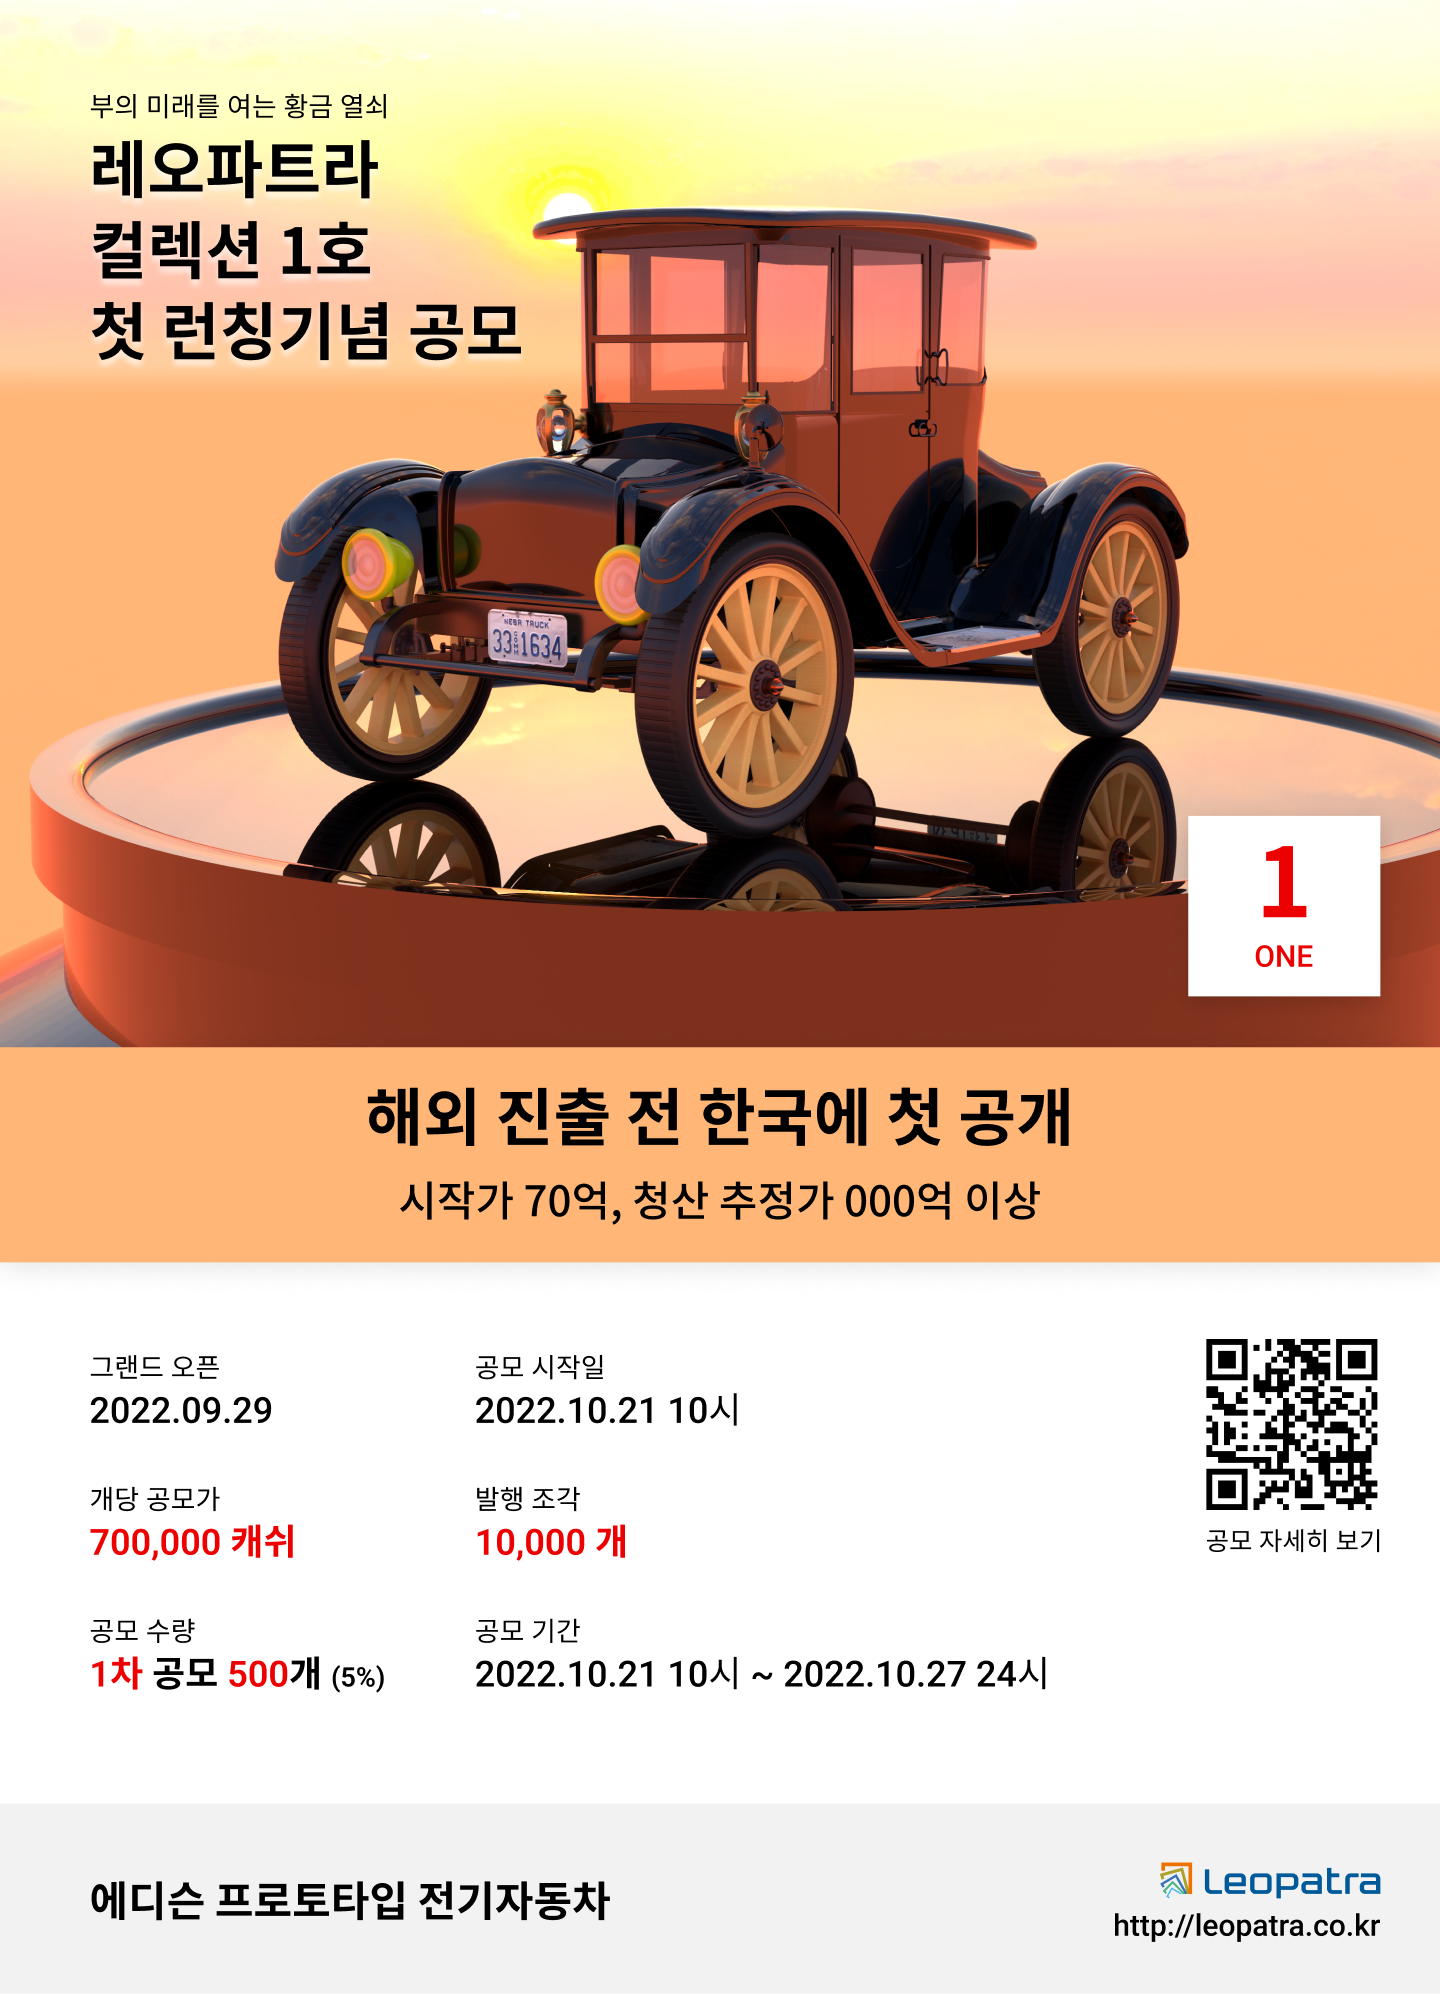
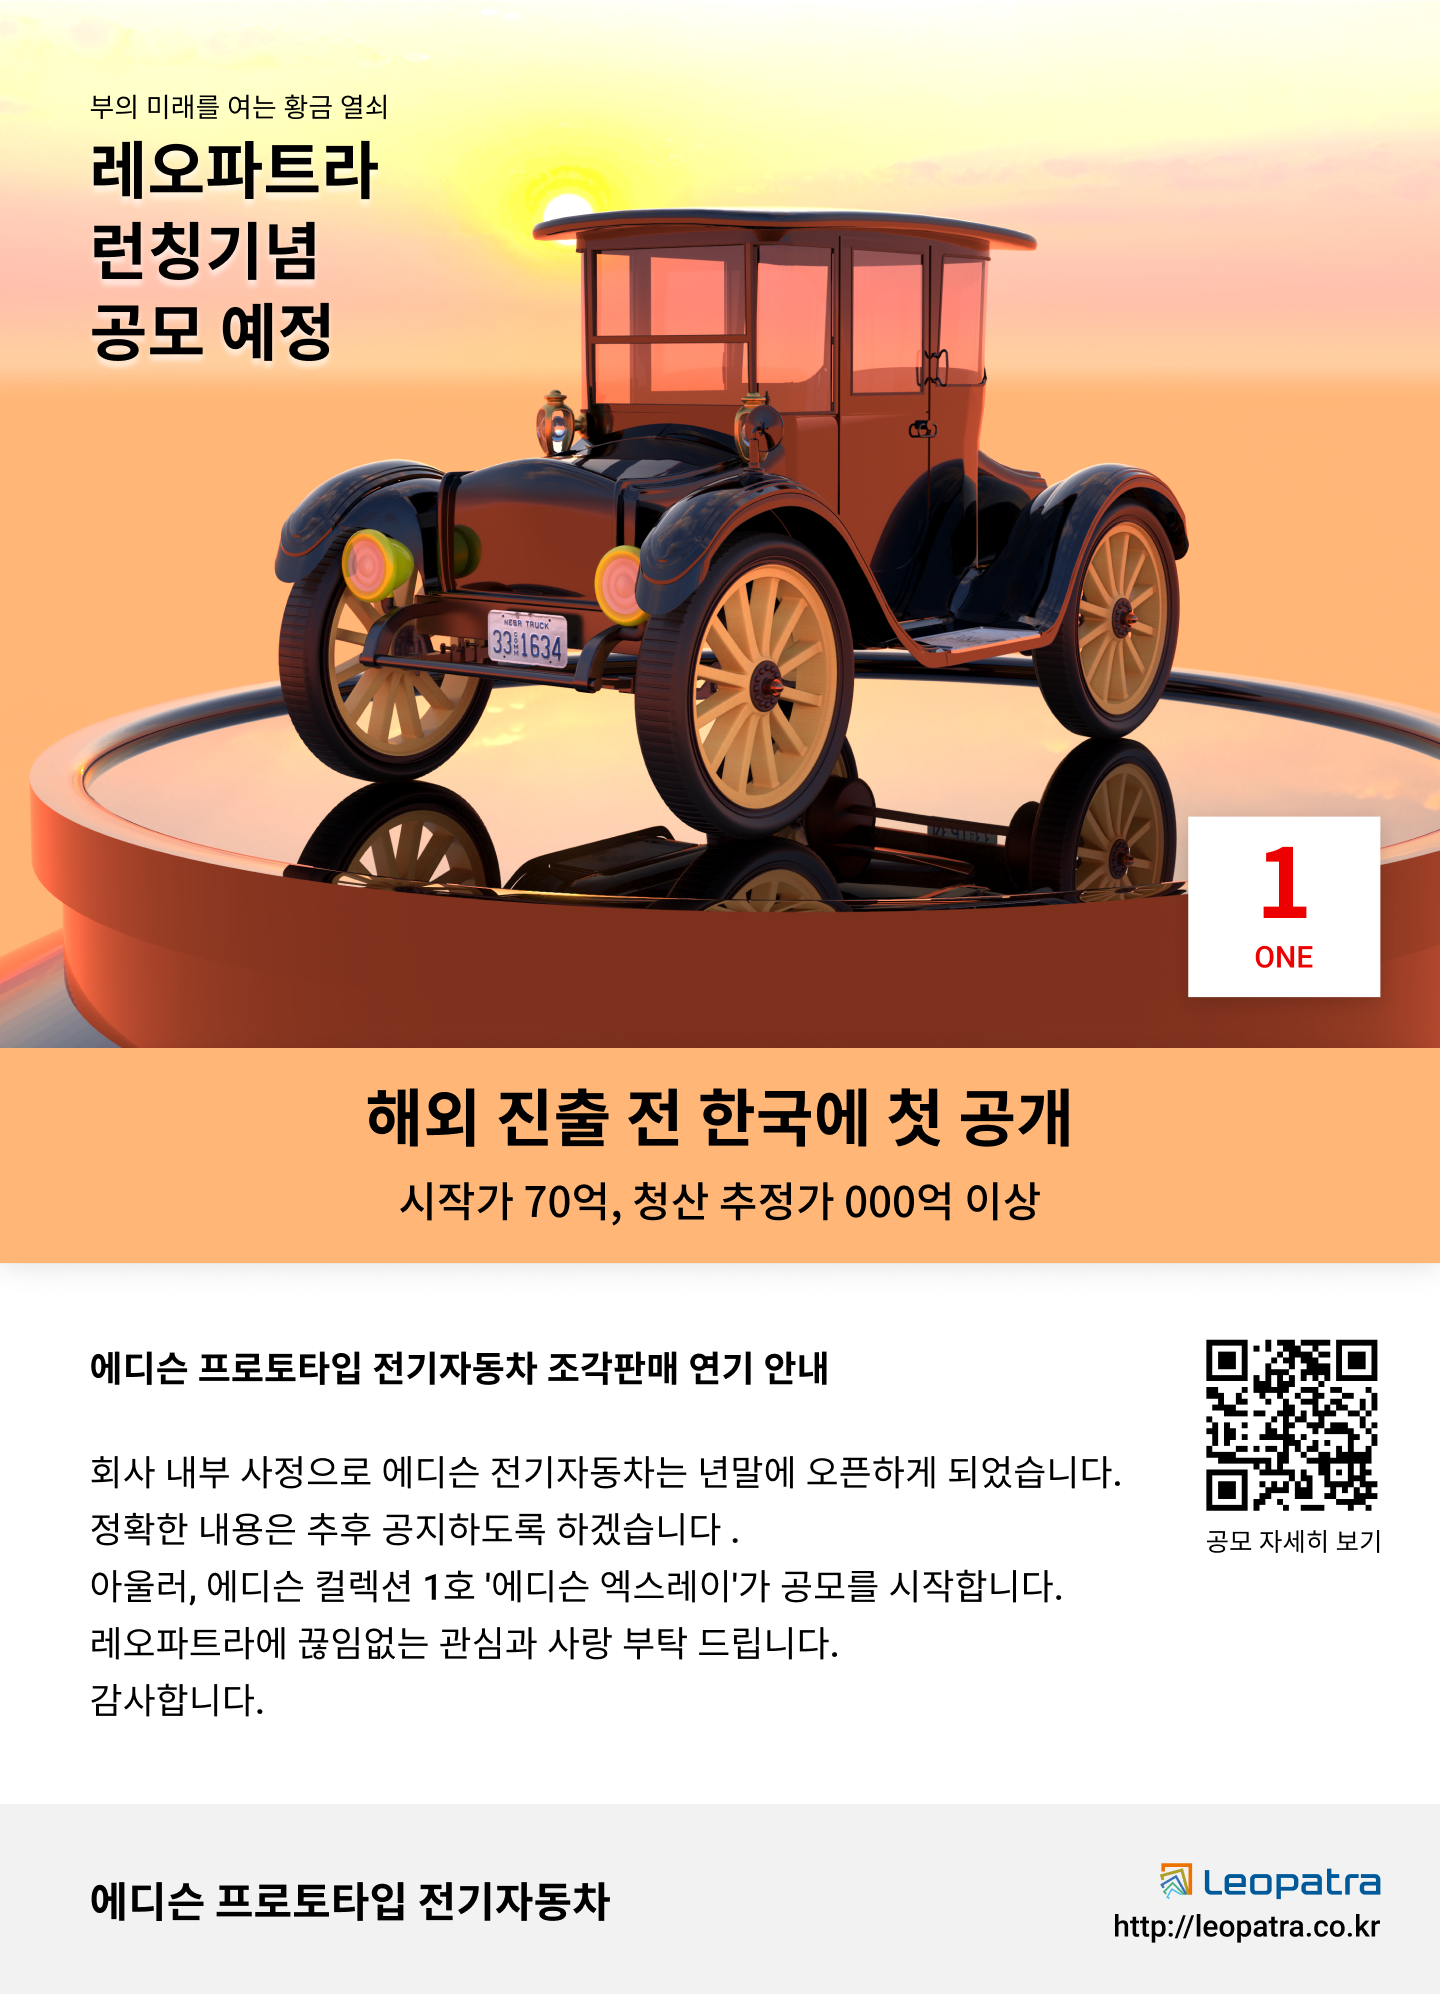
popup창 이미지 변경

diff --git a/html/MK-01-0001.html b/html/MK-01-0001.html
@@ -205,13 +205,13 @@
                           <a href="">
                             <div class="bestItem">
                               <div class="textBox">
-                                <p class="p0">BEST</p>
+                                <p class="p0">Coming Soon</p>
                                 <p class="p1">에디슨 전기차</p>
-                                <p class="p2">세상에서 가장 값진 '에디슨 컬렉션 1호'</p>
+                                <p class="p2">세상에서 가장 값진 '에디슨 컬렉션'</p>
                                 <p class="p3">전세계 3대뿐인 '에디슨 전기자동차 프로토타입' 조각상품
                                 </p>
                                 <p class="p4">블록체인 NFT신뢰 플랫폼 레오파트라, ‘에디슨 컬렉션 1호’ 9월말 출시 강릉 에디슨과학·참소리축음기·손성목영화 박물관 소장품 
-                                  독점 계약… 소유권 조각 판매 '에디슨이 타고 다니던 차'로 유명한 
+                                  독점 계약… 소유권 조각 판매<br/>'에디슨이 타고 다니던 차'로 유명한 
                                   희귀소장품, 경매가 100억원대 예상
                                 </p>
                                 <div class="storyBtn">
@@ -220,7 +220,8 @@
                                   </a>
                                 </div>
                                 <span class="horLine"></span>
-                                <p class="p5">120,000 원</p>
+                                <p class="p5">시작가 70억,<br/> 
+                                  청산 추정가 000억 이상</p>
                               </div>
                               <div class="imgBox">
                                 <img src="../asset/images/bestItem.png" alt="">

diff --git a/asset/css/common.css b/asset/css/common.css
@@ -2054,12 +2054,12 @@ border-bottom: 10px solid #fff;content: "";position: absolute;top:42px;left:-15p
 .prdList .bestItem .textBox .p1{font-weight: 700;font-size: 28px;line-height: 41px;margin-top: 20px;}
 .prdList .bestItem .textBox .p2{font-weight: 700;font-size: 18px;line-height: 27px;margin-top: 4px;}
 .prdList .bestItem .textBox .p3{font-size: 16px;line-height: 27px;margin-top: 4px;}
-.prdList .bestItem .textBox .p4{font-size: 14px;line-height: 21px;margin-top: 23px;}
-.prdList .bestItem .textBox .storyBtn{font-weight: 700; font-size: 18px; line-height: 21px; margin-top: 38px;  }
+.prdList .bestItem .textBox .p4{width: 360px; font-size: 14px;line-height: 21px;margin-top: 23px;}
+.prdList .bestItem .textBox .storyBtn{font-weight: 700; font-size: 18px; line-height: 21px; margin-top: 15px;  }
 .prdList .bestItem .textBox .storyBtn a{color: #506FB3; }
 .prdList .bestItem .textBox .storyBtn img { transform: rotate(270deg);   margin-bottom: 3px;  }
 .prdList .bestItem .textBox .horLine{width: 90px;height: 1px;margin:19px 0; background-color: rgba(0, 0, 0, 0.4);}
-.prdList .bestItem .textBox .p5{font-weight: 500;font-size: 38px;line-height: 45px;}
+.prdList .bestItem .textBox .p5{font-weight: 600;font-size: 34px;line-height: 40px;}
 .prdList .bestItem .imgBox {display: flex;justify-content: center;align-items: center;margin-left: auto;background-color: #506FB3;width: 809px; max-height: 550px; margin-left: 37px;}
 .prdList .bestItem .imgBox img{width: 100%; height: 100%;}
 
